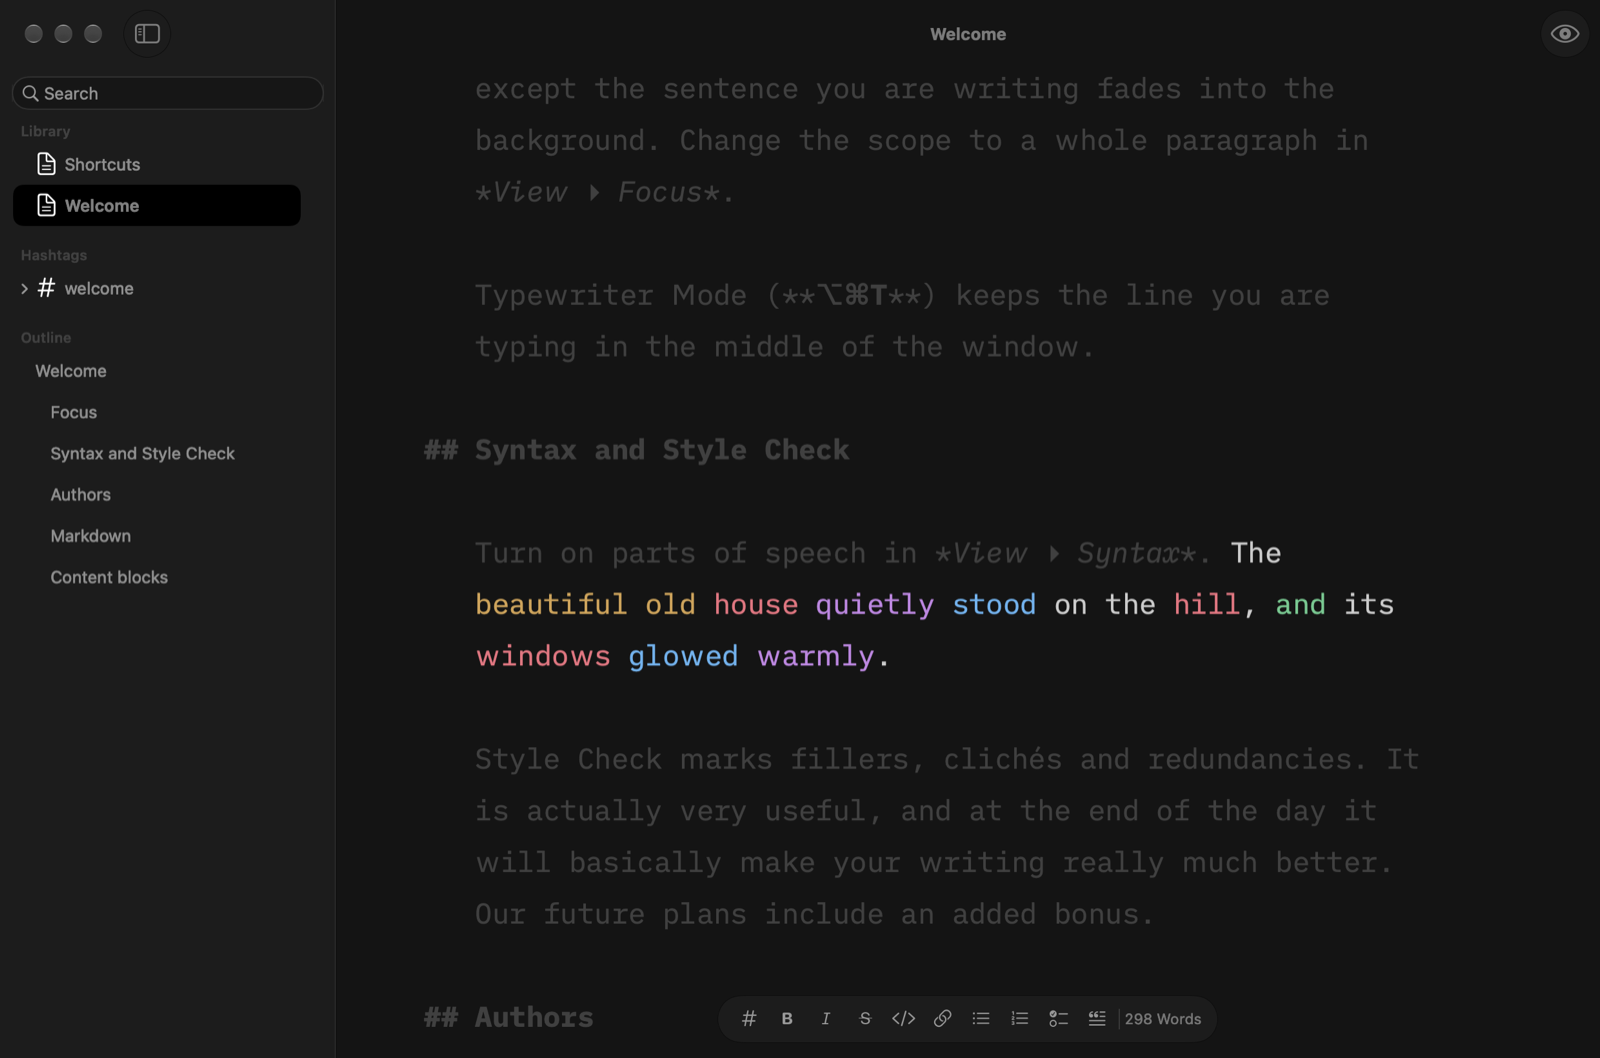
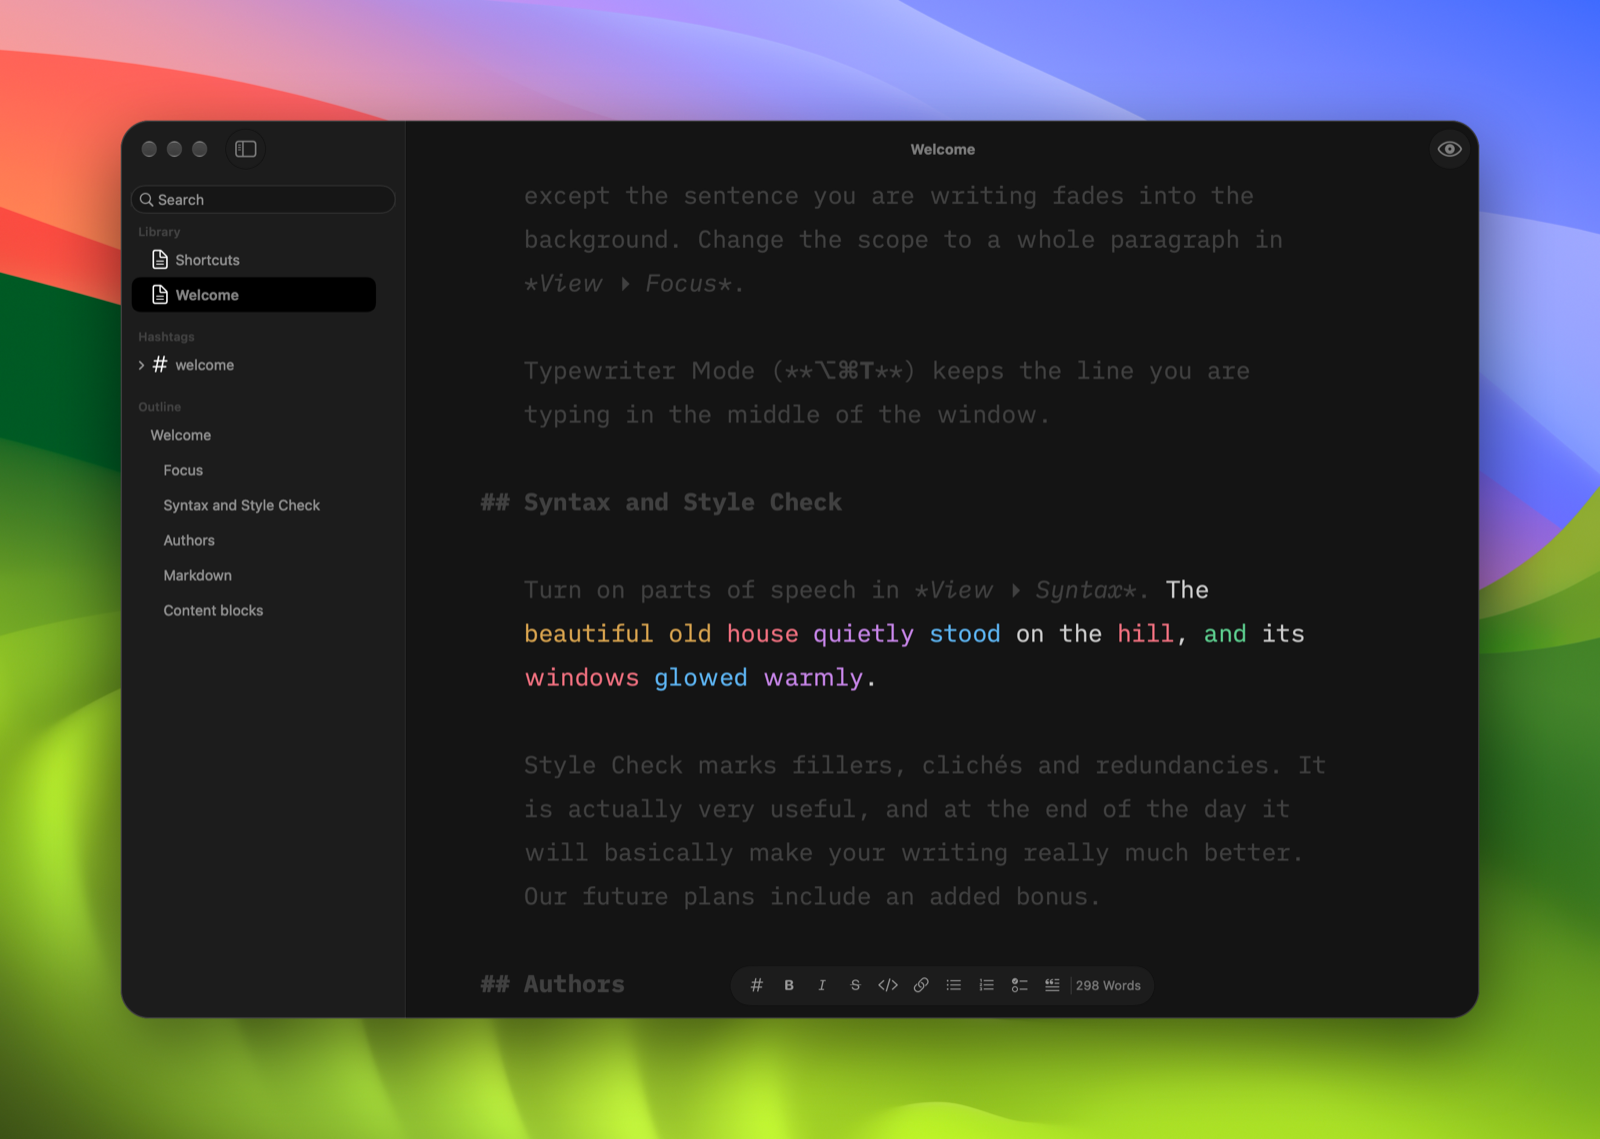
Frame all README screenshots on the macOS wallpaper
frame-screenshot.swift now takes a background image and scales its
margin and shadow to the input size.

diff --git a/Scripts/frame-screenshot.swift b/Scripts/frame-screenshot.swift
@@ -1,14 +1,18 @@
 import AppKit
 
 let arguments = CommandLine.arguments
-guard arguments.count == 3,
-      let data = FileManager.default.contents(atPath: arguments[1]),
-      let window = NSBitmapImageRep(data: data)?.cgImage else {
-    FileHandle.standardError.write(Data("usage: frame-screenshot.swift <window.png> <out.png>\n".utf8))
+guard arguments.count == 4,
+      let windowData = FileManager.default.contents(atPath: arguments[1]),
+      let window = NSBitmapImageRep(data: windowData)?.cgImage,
+      let backgroundImage = NSImage(contentsOfFile: arguments[2]),
+      let background = backgroundImage.cgImage(forProposedRect: nil, context: nil, hints: nil) else {
+    FileHandle.standardError.write(Data("usage: frame-screenshot.swift <window.png> <background> <out.png>\n".utf8))
     exit(1)
 }
 
-let margin = 220
+let margin = min(220, window.width / 10)
+let scale = CGFloat(margin) / 220
+let radius = 52 * scale
 let width = window.width + margin * 2
 let height = window.height + margin * 2
 let space = CGColorSpace(name: CGColorSpace.sRGB)!
@@ -21,38 +25,16 @@ func color(_ hex: UInt32, _ alpha: CGFloat = 1) -> CGColor {
     ])!
 }
 
-func gradient(_ stops: [(UInt32, CGFloat, CGFloat)]) -> CGGradient {
-    CGGradient(colorSpace: space,
-               colorComponents: stops.flatMap { hex, alpha, _ in
-                   let c = color(hex, alpha).components!
-                   return [c[0], c[1], c[2], c[3]]
-               },
-               locations: stops.map { $0.2 }, count: stops.count)!
-}
-
-let canvas = CGPoint(x: width, y: height)
-context.drawLinearGradient(
-    gradient([(0x1b1464, 1, 0), (0x6a2c9e, 1, 0.45), (0xd1507c, 1, 0.75), (0xf2a65a, 1, 1)]),
-    start: CGPoint(x: 0, y: canvas.y), end: CGPoint(x: canvas.x, y: 0), options: [])
-
-let blobs: [(CGFloat, CGFloat, CGFloat, UInt32, CGFloat)] = [
-    (0.15, 0.85, 0.55, 0x3f7bff, 0.55),
-    (0.85, 0.15, 0.50, 0xffc371, 0.60),
-    (0.80, 0.90, 0.40, 0xff5fa2, 0.45),
-    (0.10, 0.10, 0.45, 0x2a0f5c, 0.60),
-]
-for (x, y, radius, hex, alpha) in blobs {
-    context.drawRadialGradient(
-        gradient([(hex, alpha, 0), (hex, 0, 1)]),
-        startCenter: CGPoint(x: canvas.x * x, y: canvas.y * y), startRadius: 0,
-        endCenter: CGPoint(x: canvas.x * x, y: canvas.y * y), endRadius: canvas.x * radius, options: [])
-}
+let fill = max(CGFloat(width) / CGFloat(background.width), CGFloat(height) / CGFloat(background.height))
+let fillSize = CGSize(width: CGFloat(background.width) * fill, height: CGFloat(background.height) * fill)
+context.draw(background, in: CGRect(x: (CGFloat(width) - fillSize.width) / 2, y: (CGFloat(height) - fillSize.height) / 2,
+                                    width: fillSize.width, height: fillSize.height))
 
 let frame = CGRect(x: margin, y: margin, width: window.width, height: window.height)
-let shape = CGPath(roundedRect: frame, cornerWidth: 52, cornerHeight: 52, transform: nil)
+let shape = CGPath(roundedRect: frame, cornerWidth: radius, cornerHeight: radius, transform: nil)
 
 context.saveGState()
-context.setShadow(offset: CGSize(width: 0, height: -50), blur: 140, color: color(0x000000, 0.55))
+context.setShadow(offset: CGSize(width: 0, height: -50 * scale), blur: 140 * scale, color: color(0x000000, 0.55))
 context.addPath(shape)
 context.setFillColor(color(0x161616))
 context.fillPath()
@@ -64,10 +46,10 @@ context.clip()
 context.draw(window, in: frame)
 context.restoreGState()
 
-context.addPath(CGPath(roundedRect: frame.insetBy(dx: 1, dy: 1), cornerWidth: 51, cornerHeight: 51, transform: nil))
+context.addPath(CGPath(roundedRect: frame.insetBy(dx: 1, dy: 1), cornerWidth: radius - 1, cornerHeight: radius - 1, transform: nil))
 context.setStrokeColor(color(0xffffff, 0.18))
-context.setLineWidth(2)
+context.setLineWidth(2 * scale)
 context.strokePath()
 
 let output = NSBitmapImageRep(cgImage: context.makeImage()!)
-try! output.representation(using: .png, properties: [:])!.write(to: URL(fileURLWithPath: arguments[2]))
+try! output.representation(using: .png, properties: [:])!.write(to: URL(fileURLWithPath: arguments[3]))

diff --git a/AGENTS.md b/AGENTS.md
@@ -29,7 +29,7 @@ build/Writer.app/Contents/MacOS/Writer --snapshot <dir> --library <dir>
 
 ## README screenshots
 
-`docs/*.png` come from the snapshot run: `02-focus`, `03-syntax-style-authors` and `06-preview`, resized with `sips -Z 1600` (`-Z 700` for the preview). `docs/editor.png` is `01-editor` put on a gradient background with `swiftc Scripts/frame-screenshot.swift -o <bin> && <bin> 01-editor.png out.png`, then `sips -Z 1800`.
+`docs/*.png` are the snapshot shots `01-editor`, `02-focus`, `03-syntax-style-authors` and `06-preview`, each put on the macOS Sonoma wallpaper with `swiftc Scripts/frame-screenshot.swift -o <bin> && <bin> <shot>.png "/System/Library/Desktop Pictures/Sonoma.heic" out.png`, then resized with `sips -Z 1800` (`-Z 1600` for focus and syntax, `-Z 900` for the preview).
 
 ## Releasing
 

diff --git a/README.md b/README.md
@@ -54,7 +54,7 @@ Paste with ⇧⌘V and Writer marks the text as AI-written and colors it. Charac
 
 A WebKit preview renders KaTeX math, footnotes, callouts, tables, task lists and content blocks. For your own look, drop a `.css` file into the templates folder.
 
-<p align="center"><img src="docs/preview.png" alt="Rendered preview with a table of contents" width="360"></p>
+<p align="center"><img src="docs/preview.png" alt="Rendered preview with a table of contents" width="420"></p>
 
 ### And the rest
 
